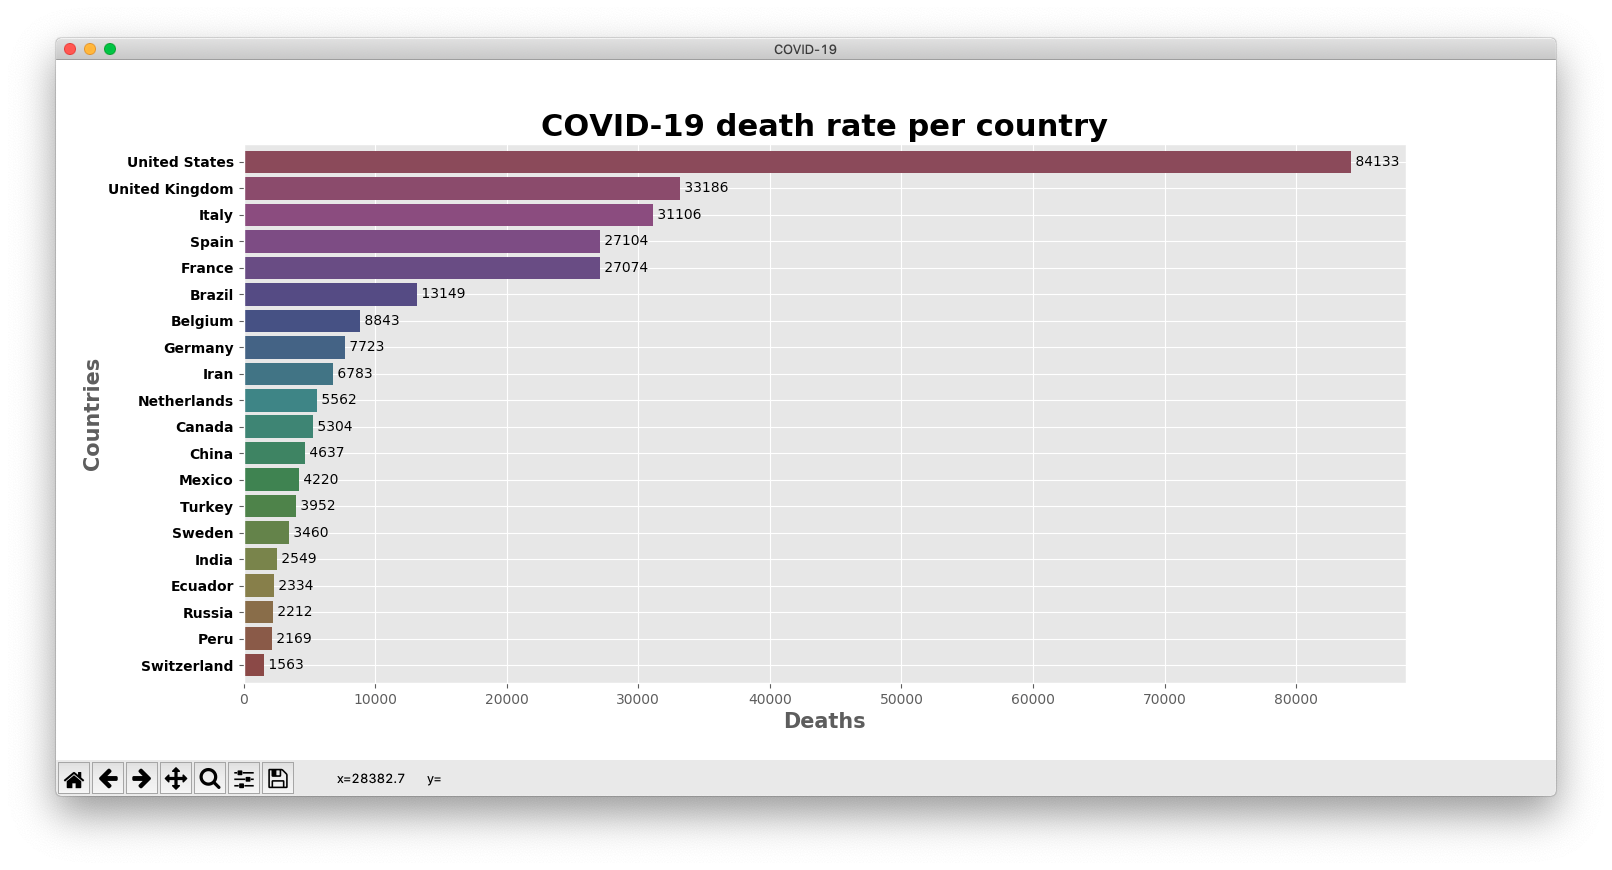
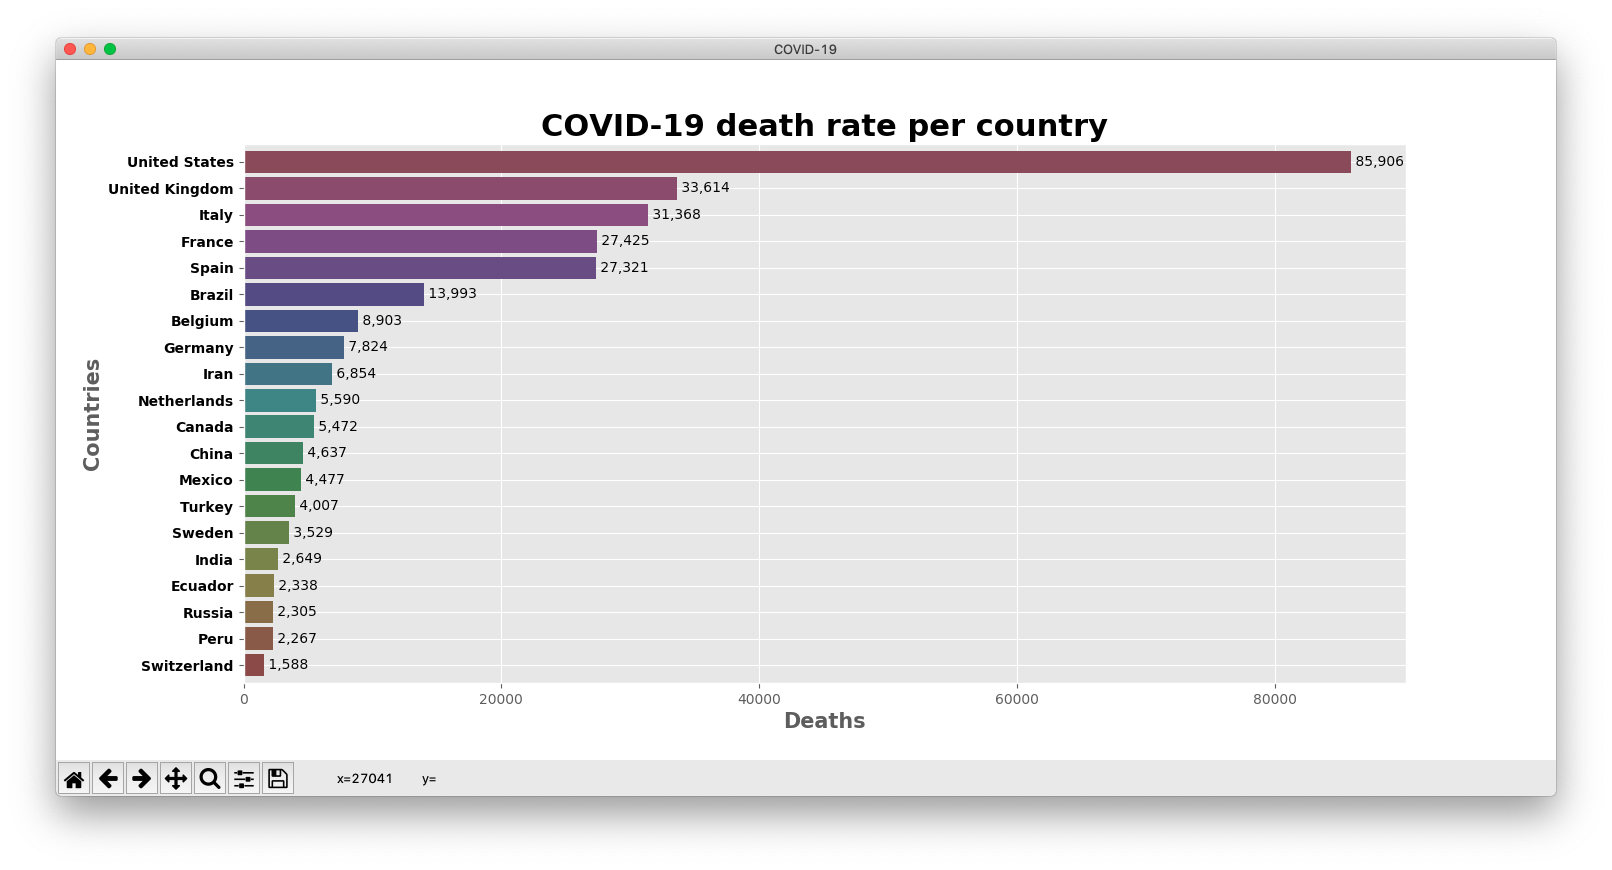
thousand separator

diff --git a/Functions/graph_functions.py b/Functions/graph_functions.py
@@ -1,5 +1,6 @@
 #!/usr/bin/env python3
 import matplotlib.pyplot as plt
+import matplotlib as mpl
 import pandas as pd
 import numpy as np
 from Classes.classes import Graph
@@ -29,10 +30,12 @@ def show_most_cases(chart_num, df):
     stats_name = chart.split(sep='_')[-1]
     graph = Graph('COVID-19 ' + stats_name[:-1] + ' rate per country', 'countries', stats_name)
     top20 = df.groupby('location')[[chart]].sum().sort_values([chart])[-21:-1].reset_index()
+    values = top20[chart].apply("{:,}".format).to_numpy()
     top20.plot(kind='barh', color=get_N_HexCol(), width=0.85, y=chart, x='location', ax=graph.ax)
+
     graph.set_info()
     for i, country in enumerate(top20[chart]):
-        graph.ax.text(country, i, " "+str(country), va='center')
+        graph.ax.text(country, i, " "+values[i], va='center')
     graph.ax.legend().set_visible(False)
     plt.yticks(fontweight='bold', color='black')
     plt.xticks(fontsize=10)

diff --git a/main_script.py b/main_script.py
@@ -2,6 +2,7 @@
 import datadotworld as dw
 from pandas.plotting import register_matplotlib_converters
 import pandas as pd
+import numpy as np
 from Functions.graph_functions import show_most_cases, compare_countries
 import timeit
 register_matplotlib_converters()
@@ -24,7 +25,7 @@ def main():
     print(f"Updated: {youngest}")
     show_most_cases('3', df)
     show_most_cases('4', df)
-    compare_countries(df)
+    #compare_countries(df)
 
 if __name__ == "__main__":
     main()
